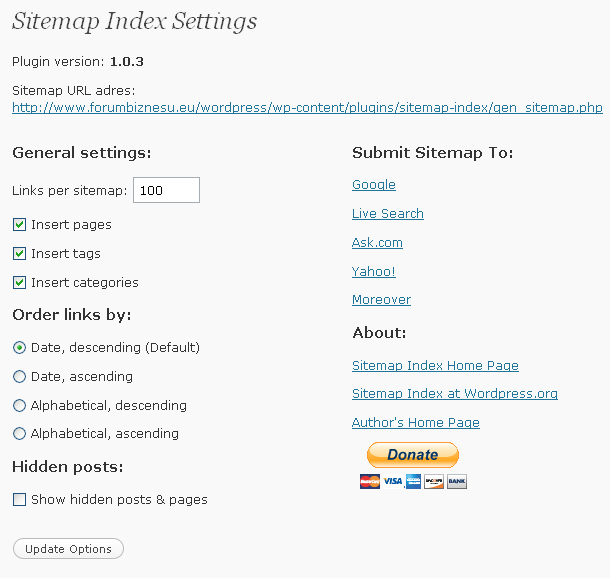
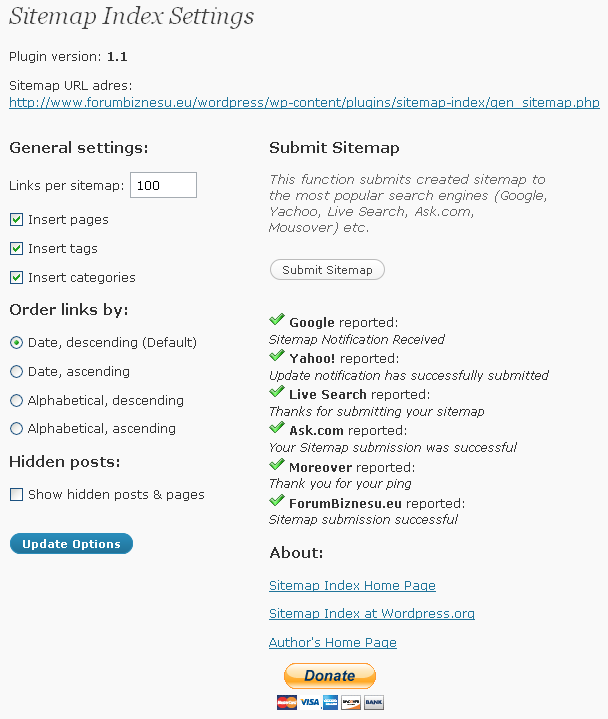
git-svn-id: https://plugins.svn.wordpress.org/sitemap-index/trunk@117648 b8457f37-d9ea-0310-8a92-e5e31aec5664

diff --git a/sitemap-index.php b/sitemap-index.php
@@ -4,12 +4,17 @@ Plugin Name: Sitemap Index
 Plugin URI: http://www.forumbiznesu.eu/wordpress/sitemap-index-plugin
 Description: Automaticly generates virtual sitemaps and sitemap index in XML format.
 Author: Twardes
-Version: 1.1
+Version: 1.2
 Author URI: http://www.forumbiznesu.eu/
 */
 
 /*
 == Changelog ==
+
+1.2
+
+*	Changed sitemap submission function. Now submits to all search engines at once.
+*	Improved sitemap generation.
 
 1.1
 
@@ -90,6 +95,121 @@ function si_admin_panel()
 $siteurl = get_option('siteurl');
 $adres_mapy = $siteurl.'/wp-content/plugins/sitemap-index/gen_sitemap.php';
 
+$added_sitemap = '';
+
+
+function sitemapSubmit($strona,$engine,$OKmessage,$NOmessage)
+{
+	
+	$okTag = 'OKsi';
+	$noTag = 'NOsi';
+	
+	$pingurl = $engine.$strona;
+
+	$source = @file_get_contents("$pingurl");
+
+	if ($source != false) {
+		
+		$source = strip_tags($source);
+		$source = "BUFOR".$source;
+		
+		$isOKmessage = stripos($source,$OKmessage);
+		$isNOmessage = stripos($source,$NOmessage);
+		
+		if (($isOKmessage != false)&&($isNOmessage == false)) {$submitRaport = $okTag.$OKmessage;}
+		if (($isOKmessage == false)&&($isNOmessage != false)) {$submitRaport = $noTag.$NOmessage;}
+		if (($isOKmessage == false)&&($isNOmessage == false)) {$submitRaport = $noTag.'Submission error';}
+
+	}
+	
+	else if ($source == false) {$submitRaport = $noTag.'Engine error';}
+	
+	return array($source, $submitRaport);
+
+}
+
+$silnik = array(
+
+	'goo' => array (
+		'nazwaEngine' => 'Google',
+		'engine' => 'http://www.google.com/webmasters/sitemaps/ping?sitemap=',
+		'OKmessage' => 'Sitemap Notification Received',
+		'NOmessage' => 'Bad Request'
+	),
+
+	'yah' => array (
+		'nazwaEngine' => 'Yahoo!',
+		'engine' => 'http://search.yahooapis.com/SiteExplorerService/V1/ping?sitemap=',
+		'OKmessage' => 'Update notification has successfully submitted',
+		'NOmessage' => 'The following errors were detected'
+	),	
+
+	'liv' => array (
+		'nazwaEngine' => 'Live Search',
+		'engine' => 'http://webmaster.live.com/ping.aspx?siteMap=',
+		'OKmessage' => 'Thanks for submitting your sitemap',
+		'NOmessage' => 'baddddddd'
+	),
+
+	'ask' => array (
+		'nazwaEngine' => 'Ask.com',
+		'engine' => 'http://submissions.ask.com/ping?sitemap=',
+		'OKmessage' => 'Your Sitemap submission was successful',
+		'NOmessage' => 'Your Sitemap submission was not successful'
+	),
+
+	'mor' => array (
+		'nazwaEngine' => 'Moreover',
+		'engine' => 'http://api.moreover.com/ping?u=',
+		'OKmessage' => 'Thank you for your ping',
+		'NOmessage' => 'baddddddd'
+	),
+	
+	'for' => array (
+		'nazwaEngine' => 'ForumBiznesu.eu',
+		'engine' => 'http://www.forumbiznesu.eu/wordpress/submission.php?sitemap=',
+		'OKmessage' => 'Sitemap submission successful',
+		'NOmessage' => 'baddddddd'
+	),
+
+);
+
+
+$addSitemap = $_POST['add'];
+
+if ($addSitemap == 'yes') {
+
+$added_sitemap .= '<p>';
+
+foreach ($silnik as $siln => $cecha )
+{
+	
+$nazwaEngine	= $cecha['nazwaEngine'];
+$engine			= $cecha['engine'];
+$OKmessage		= $cecha['OKmessage'];
+$NOmessage		= $cecha['NOmessage'];
+
+$strona = $adres_mapy;
+
+list ($source, $submitRaport) =  sitemapSubmit($strona,$engine,$OKmessage,$NOmessage);
+
+$statusTag = substr($submitRaport,0,4);
+if ($statusTag == 'OKsi') {$icon = '<img border="0" src="'.$siteurl.'/wp-admin/images/yes.png" /> ';}
+else if ($statusTag == 'NOsi') {$icon = '<img border="0" src="'.$siteurl.'/wp-admin/images/no.png" /> ';}
+else {$icon = '';}
+
+$submitRaport = substr($submitRaport,4);
+
+$insert_sitemap = "\n".$icon."<b>".$nazwaEngine."</b> reported:<br /><i>".$submitRaport."</i><br />";
+$added_sitemap .= $insert_sitemap;	
+}
+
+$added_sitemap .= '</p>';
+
+}
+
+
+
 
 ?>
 
@@ -97,13 +217,13 @@ $adres_mapy = $siteurl.'/wp-content/plugins/sitemap-index/gen_sitemap.php';
 <h2>Sitemap Index Settings</h2>
 	<div>
 		<p>
-			Plugin version: <b>1.1</b>
+			Plugin version: <b>1.2</b>
 		</p>
 		<p>
-			Sitemap URL adres:<br /><a href="<?= $adres_mapy ?>"><?= $adres_mapy ?></a>
+			Sitemap URL adres:<br /><a href="<?= $adres_mapy ?>" target="_blank"><?= $adres_mapy ?></a>
 		</p>
 	</div>
-	<div style="float: left; margin-right: 10px; width: 330px">
+	<div style="float: left; margin-right: 10px; width: 250px">
 		<form method="post">
 		
 				<h3>General settings:</h3>
@@ -168,46 +288,34 @@ $orderby); ?> class="tog"/> Alphabetical, ascending
 
 			<div>
 			<p class="submit">
-				<input type="submit" name="info_update" value="Update Options" />
+				<input class="button-primary" type="submit" name="info_update" value="Update Options" />
 			</p>
 			</div>
 		</form>
 	</div>
-<div style="float: left; width: 220px; margin-right: 10px;">
+<div style="float: left; width: 280px; margin-right: 10px;">
 
-<h3>Submit Sitemap To:</h3>
-<!-- 	<p>
-		<a href="http://www.sitemapwriter.com/notify.php?crawler=all&url=<?###usunac###= $adres_mapy ?>"><b>All search engines</b></a>
-	</p> -->
-	<p>
-		<a href="http://www.google.com/webmasters/sitemaps/ping?sitemap=<?= $adres_mapy ?>">Google</a>
-	</p>
-	<p>
-		<a href="http://webmaster.live.com/ping.aspx?siteMap=<?= $adres_mapy ?>">Live Search</a>
-	</p>
-	<p>
-		<a href="http://submissions.ask.com/ping?sitemap=<?= $adres_mapy ?>">Ask.com</a>
-	</p>
-	<p>
-		<a href="http://search.yahooapis.com/SiteExplorerService/V1/ping?sitemap=<?= $adres_mapy ?>">Yahoo!</a><!--&nbsp;or&nbsp;
-		<a href="http://search.yahooapis.com/SiteExplorerService/V1/updateNotification?appid=SitemapWriter&url=<?###usunac###= $adres_mapy ?>">Yahoo!</a>-->
-	</p>
-	<p>
-		<a href="http://api.moreover.com/ping?u=<?= $adres_mapy ?>">Moreover</a>
-	</p>
-
+<h3>Submit Sitemap</h3>
+<span class="setting-description">This function submits created sitemap to the most popular search engines (Google, Yahoo, Live Search, Ask.com, Mousover) etc.</span>
+<form method="post">
+<input type="hidden" name="add" value="yes" />
+<p class="submit">
+<input type="submit" name="add_sitemap" value="Submit Sitemap" />
+</p>
+</form>
+<?=$added_sitemap?>
 <h3>About:</h3>
 <p>
-<a href="http://www.forumbiznesu.eu/wordpress/sitemap-index-plugin/">Sitemap Index Home Page</a>
+<a href="http://www.forumbiznesu.eu/wordpress/sitemap-index-plugin/" target="_blank">Sitemap Index Home Page</a>
 </p>
 <p>
-<a href="http://wordpress.org/extend/plugins/sitemap-index/">Sitemap Index at Wordpress.org</a>
+<a href="http://wordpress.org/extend/plugins/sitemap-index/" target="_blank">Sitemap Index at Wordpress.org</a>
 </p>
 <p>
-<a href="http://www.forumbiznesu.eu/">Author's Home Page</a>
+<a href="http://www.forumbiznesu.eu/" target="_blank">Author's Home Page</a>
 </p>
 <p>
-<a href="https://www.paypal.com/cgi-bin/webscr?cmd=_donations&amp;business=QJFMUHRMKC3KG&amp;lc=US&amp;item_name=Sitemap%20Index%20Plugin%20for%20Wordpress%20by%20Twardes&amp;item_number=si&amp;currency_code=USD&amp;bn=PP%2dDonationsBF%3abtn_donateCC_LG%2egif%3aNonHosted"><img class="aligncenter" title="Make a donation" src="http://www.paypal.com/en_US/i/btn/btn_donateCC_LG.gif" alt="" width="122" height="47" /></a>
+<a href="https://www.paypal.com/cgi-bin/webscr?cmd=_donations&amp;business=QJFMUHRMKC3KG&amp;lc=US&amp;item_name=Sitemap%20Index%20Plugin%20for%20Wordpress%20by%20Twardes&amp;item_number=si&amp;currency_code=USD&amp;bn=PP%2dDonationsBF%3abtn_donateCC_LG%2egif%3aNonHosted" target="_blank"><img class="aligncenter" title="Make a donation" src="http://www.paypal.com/en_US/i/btn/btn_donateCC_LG.gif" alt="" width="122" height="47" /></a>
 </p>
 
 </div>
@@ -228,6 +336,8 @@ function si_plugin_actions($links, $file){
 	}
 	return $links;
 }
+
+
 
 //hooks
 add_action('admin_menu', 'si_admin');

diff --git a/gen_sitemap.php b/gen_sitemap.php
@@ -75,12 +75,14 @@ $po_ile_postow = $manylinks;
 $siteurl = get_option('siteurl');
 
 
+$xmlForHeader = '<?xml version="1.0" encoding="UTF-8"?>
+<!-- Created by Sitemap Index plug-in for Wordpress version 1.2 (http://wordpress.org/extend/plugins/sitemap-index/) -->
+';
 
 
 if (isset($od)&&!isset($co)) {
 
-$xmlForHeader = '<?xml version="1.0" encoding="UTF-8"?>
-<urlset xmlns="http://www.sitemaps.org/schemas/sitemap/0.9">
+$xmlForHeader .= '<urlset xmlns="http://www.sitemaps.org/schemas/sitemap/0.9">
 ';
 
 $data=date("Y-m-d");
@@ -182,8 +184,7 @@ $xmlForFooter ='</urlset>';
 
 else if (($co == 'tg')&&($showtags == 'on')) {
 
-$xmlForHeader = '<?xml version="1.0" encoding="UTF-8"?>
-<urlset xmlns="http://www.sitemaps.org/schemas/sitemap/0.9">
+$xmlForHeader .= '<urlset xmlns="http://www.sitemaps.org/schemas/sitemap/0.9">
 ';
 
 $data=date("Y-m-d");	
@@ -222,8 +223,7 @@ $xmlForFooter ='</urlset>';
 
 else if (($co == 'ct')&&($showcateg == 'on')) {
 
-$xmlForHeader = '<?xml version="1.0" encoding="UTF-8"?>
-<urlset xmlns="http://www.sitemaps.org/schemas/sitemap/0.9">
+$xmlForHeader .= '<urlset xmlns="http://www.sitemaps.org/schemas/sitemap/0.9">
 ';
 
 $data=date("Y-m-d");
@@ -266,8 +266,7 @@ else
 
 {
 
-$xmlForHeader = '<?xml version="1.0" encoding="UTF-8"?>
-<sitemapindex xmlns="http://www.sitemaps.org/schemas/sitemap/0.9">
+$xmlForHeader .= '<sitemapindex xmlns="http://www.sitemaps.org/schemas/sitemap/0.9">
 ';
 
 $data=date("Y-m-d");
